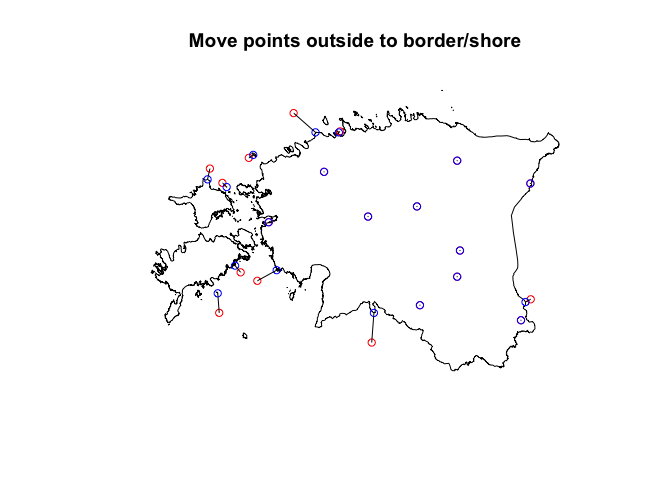
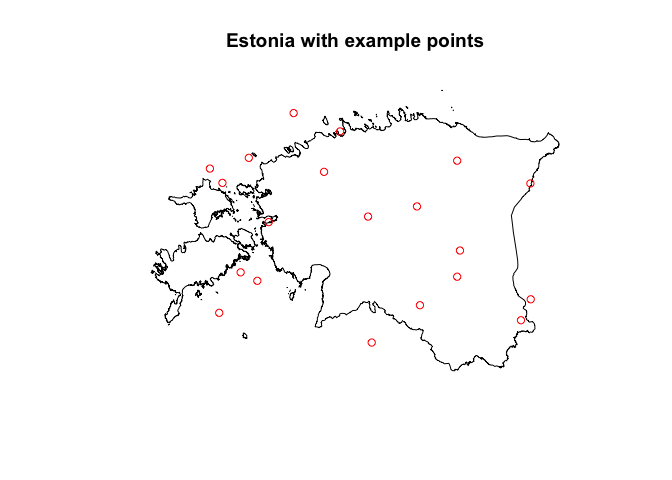
update readme examples

diff --git a/snap-points-to-lines/README.md b/snap-points-to-lines/README.md
@@ -1,6 +1,21 @@
 Snap points to lines/polygons
 ================
 
+-   [To source](#to-source)
+-   [Notes](#notes)
+    -   [Snap all point to a line](#snap-all-point-to-a-line)
+    -   [Snap only those points outside the polygon](#snap-only-those-points-outside-the-polygon)
+
+To source
+---------
+
+``` r
+devtools::source_url("https://raw.githubusercontent.com/andybega/r-misc/master/snap-points-to-lines/snap-points.R")
+```
+
+Notes
+-----
+
 ``` r
 library("maptools")
 library("raster")
@@ -26,12 +41,6 @@ eesti <- eesti_sp %>%
     ## needs to be in decimal degrees
 
 ``` r
-plot(eesti[, 1], col = 0, main = "Estonia")
-```
-
-![](README_files/figure-markdown_github-ascii_identifiers/unnamed-chunk-2-1.png)
-
-``` r
 pts <- eesti %>% 
   # hack to turn bbox into polygon we can sample
   st_geometry() %>% st_make_grid() %>% st_union() %>% 
@@ -41,17 +50,21 @@ pts <- eesti %>%
     ## although coordinates are longitude/latitude, it is assumed that they are planar
 
 ``` r
-plot(eesti[, 1], col = 0, main = "Snap all points to border/shore")
+plot(eesti[, 1], col = 0, main = "Estonia with example points")
 plot(pts, add = T, col = "red")
+```
 
+![](README_files/figure-markdown_github-ascii_identifiers/unnamed-chunk-3-1.png)
+
+### Snap all point to a line
+
+``` r
 target <- eesti %>% st_geometry() %>% st_boundary() %>% 
   # need to convert MULTILINESTRING to LINESTRING otherwise only the first line
   # will be matched against
   st_cast(., "LINESTRING") 
 
 new_pts <- snap_points_to_line(pts, target, epsg = 3301)
-plot(new_pts, add = T, col = "blue")
-
 
 coords1 <- st_coordinates(pts)
 coords2 <- st_coordinates(new_pts)
@@ -61,10 +74,16 @@ connectors <- lapply(1:length(pts), function(i) {
   x <- st_linestring(x)
 })
 connectors <- st_sfc(connectors, crs = epsg)
+
+plot(eesti[, 1], col = 0, main = "Snap all points to border/shore")
+plot(pts, add = T, col = "red")
+plot(new_pts, add = T, col = "blue")
 plot(connectors, add = T)
 ```
 
-![](README_files/figure-markdown_github-ascii_identifiers/unnamed-chunk-2-2.png)
+![](README_files/figure-markdown_github-ascii_identifiers/unnamed-chunk-4-1.png)
+
+### Snap only those points outside the polygon
 
 ``` r
 new_pts <- snap_points_to_polygon(pts, st_geometry(eesti), epsg = 3301)
@@ -84,7 +103,7 @@ plot(new_pts, add = T, col = "blue")
 plot(connectors, add = T)
 ```
 
-![](README_files/figure-markdown_github-ascii_identifiers/unnamed-chunk-3-1.png)
+![](README_files/figure-markdown_github-ascii_identifiers/unnamed-chunk-5-1.png)
 
 It is possible that this would still leave some points outside the polygon if you check with `st_intersects`. I'm not sure why this is but I would guess precision issues and doing this with lat/long data might be involved. An easy way around this problem is to snap points not to the border/shore, but slightly inside the country using a buffer.
 
@@ -108,7 +127,7 @@ eesti_buffer %>%
   plot(., col = "blue", lty = 2, add = T)
 ```
 
-![](README_files/figure-markdown_github-ascii_identifiers/unnamed-chunk-4-1.png)
+![](README_files/figure-markdown_github-ascii_identifiers/unnamed-chunk-6-1.png)
 
 ``` r
 new_pts <- snap_points_to_polygon(pts, st_geometry(eesti), epsg = 3301,
@@ -129,4 +148,4 @@ plot(new_pts, add = T, col = "blue")
 plot(connectors, add = T)
 ```
 
-![](README_files/figure-markdown_github-ascii_identifiers/unnamed-chunk-4-2.png)
+![](README_files/figure-markdown_github-ascii_identifiers/unnamed-chunk-6-2.png)
